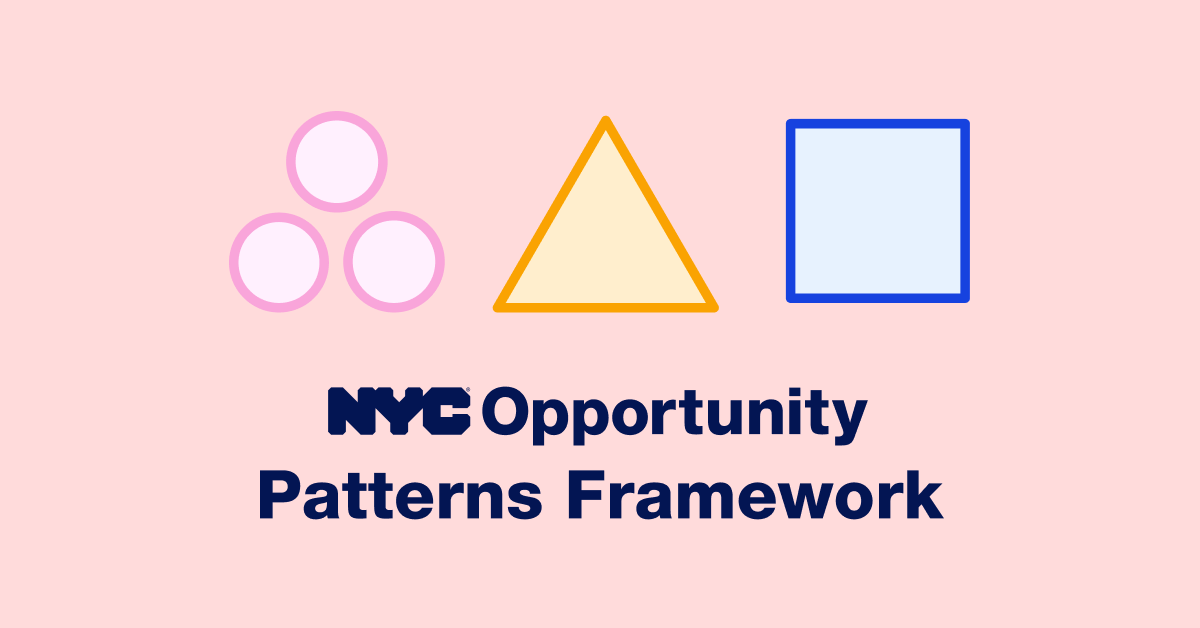
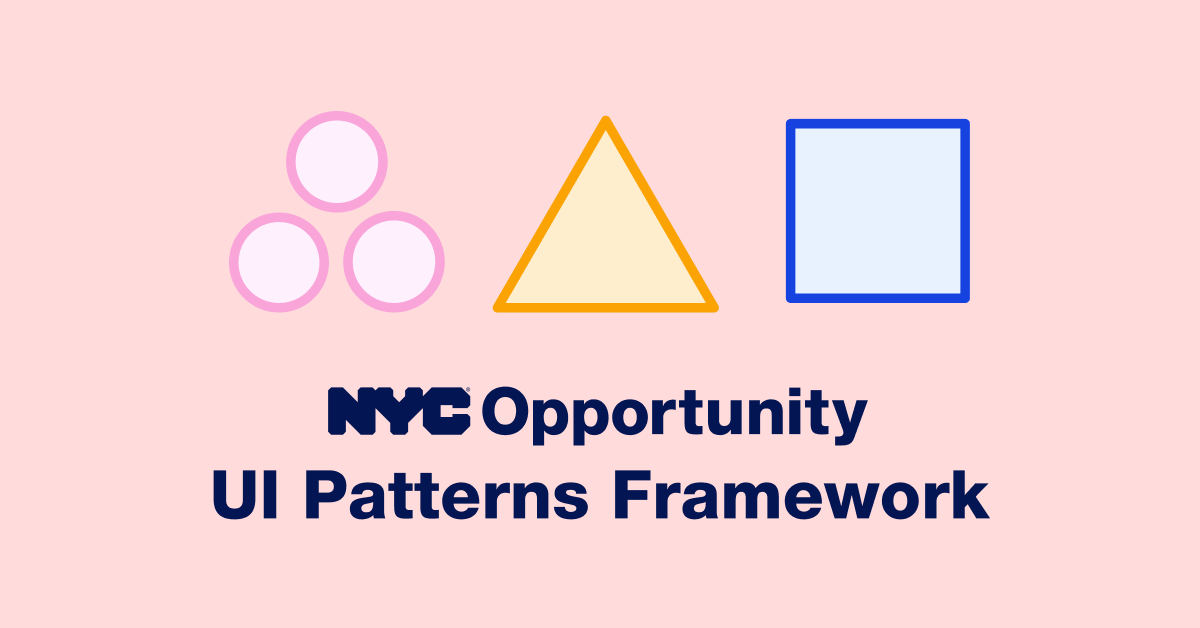
Updates

Changed region(s): [[0.1542, 0.7261, 0.8325, 0.8471]]

diff --git a/index.html b/index.html
@@ -6,17 +6,17 @@
   <meta content="IE=edge" http-equiv="X-UA-Compatible" />
   <meta content="width=device-width, initial-scale=1" name="viewport" />
   <link href="https://nycopportunity.github.io/patterns-framework/svg/pttrn-favicon.svg" rel="icon" type="image/svg+xml" />
-  <title>NYC Opportunity Patterns Framework</title>
-  <meta content="NYC Opportunity Patterns Framework" name="title" />
+  <title>NYC Opportunity UI Patterns Framework</title>
+  <meta content="NYC Opportunity UI Patterns Framework" name="title" />
   <meta content="The framework is a collection of tools and principles used to make creating pattern libraries fun for developers, transparent for teams, and sustainable beyond the lifecycle of digital products." name="description" />
   <meta content="website" property="og:type" />
   <meta content="https://nycopportunity.github.io/patterns-framework" property="og:url" />
-  <meta content="NYC Opportunity Patterns Framework" property="og:title" />
+  <meta content="NYC Opportunity UI Patterns Framework" property="og:title" />
   <meta content="The framework is a collection of tools and principles used to make creating pattern libraries fun for developers, transparent for teams, and sustainable beyond the lifecycle of digital products." property="og:description" />
   <meta content="https://nycopportunity.github.io/patterns-framework/img/open-graph.png" property="og:image" />
   <meta content="summary_large_image" property="twitter:card" />
   <meta content="https://nycopportunity.github.io/patterns-framework" property="twitter:url" />
-  <meta content="NYC Opportunity Patterns Framework" property="twitter:title" />
+  <meta content="NYC Opportunity UI Patterns Framework" property="twitter:title" />
   <meta content="The framework is a collection of tools and principles used to make creating pattern libraries fun for developers, transparent for teams, and sustainable beyond the lifecycle of digital products." property="twitter:description" />
   <meta content="https://nycopportunity.github.io/patterns-framework/img/open-graph.png" property="twitter:image" />
   <link href="https://fonts.gstatic.com" rel="preconnect" />
@@ -48,24 +48,44 @@
   <main class="color-light-background">
     <section class="layout-content px-2 tablet:px-3 pt-8">
       <div class="mx-auto">
-        <blockquote>
+        <blockquote class="mb-8">
           <p>The framework is a collection of tools and principles used to make creating pattern libraries fun for developers, transparent for teams, and sustainable beyond the lifecycle of digital products.</p>
         </blockquote>
-        <h3 id="why-patterns">Why Patterns?</h3>
-        <p>
-          <strong>Pattern libraries unify the experience of user interfaces because they can be integrated into different service delivery channels</strong>. The public does not perceive the parts that make up digital government services as distinct products the way civil servants do. Websites, forms, mobile apps, dashboards, email newsletters, etc. are often perceived as a single entity. The more consistent these are from a user interface (UI) and user experience (UX) perspective the better the service delivery will be for end-users.
-        </p>
-        <p>
-          <strong>They reduce the amount of work that is required by designers and developers to implement new services</strong>. By using patterns we can strive toward “making the right thing to do the easiest thing to do.” We can use tools that help developers become better at writing error free code, ensure the team adheres to accessibility standards, and create UIs that have been proven to work <strong>and</strong> can adapt to the changing times.
-        </p>
-        <p>
-          <strong>They create a common and accessible language for the organization to approach digital service delivery</strong>. “Language is fundamental to collaboration. If you work in a team, your design language needs to be shared among the people involved in the creation of the product. Without a shared language, a group of people can’t create effectively together – each person will have a different mental model of what they’re trying to achieve.” - <a href="https://www.smashingmagazine.com/design-systems-book/">
+        <!-- > The framework is a collection of tools and principles used to make creating pattern libraries fun for developers, transparent for teams, and sustainable beyond the lifecycle of digital products. -->
+        <h2 id="why-patterns">Why Patterns?</h2>
+        <div class="shadow-up">
+          <div class="color-primary-background border-navy p-4 h4 mb-3">
+            <p>
+              <strong>Pattern libraries unify the experience of user interfaces because they can be integrated into different service delivery channels.</strong>
+            </p>
+          </div>
+        </div>
+        <p>The public does not perceive the parts that make up digital government services as distinct products the way civil servants do. Websites, forms, mobile apps, dashboards, email newsletters, etc. are often perceived as a single entity. The more consistent these are from a user interface (UI) and user experience (UX) perspective the better the service delivery will be for end-users.</p>
+        <div class="shadow-up">
+          <div class="color-primary-background border-navy p-4 h4 mb-3 mt-6">
+            <p>
+              <strong>They reduce the amount of work that is required by designers and developers to implement new services</strong>.
+            </p>
+          </div>
+        </div>
+        <p>By using patterns we can strive toward “making the right thing to do the easiest thing to do.” We can use tools that help developers become better at writing error free code, ensure the team adheres to accessibility standards, and create UIs that have been proven to work <strong>and</strong> can adapt to the changing times.</p>
+        <div class="shadow-up">
+          <div class="color-primary-background border-navy p-4 h4 mb-3 mt-6">
+            <p>
+              <strong>They create a common and accessible language for the organization to approach digital service delivery</strong>.
+            </p>
+          </div>
+        </div>
+        <p>“Language is fundamental to collaboration. If you work in a team, your design language needs to be shared among the people involved in the creation of the product. Without a shared language, a group of people can’t create effectively together – each person will have a different mental model of what they’re trying to achieve.” - <a href="https://www.smashingmagazine.com/design-systems-book">
             <strong>Design Systems</strong>
-          </a> by Alla Kholmatova.
+          </a>
+          <em>by Alla Kholmatova</em>.
         </p>
-        <h3 id="principles">Principles</h3>
+        <h2 id="principles">Principles</h2>
         <p>
-          <a href="https://atomicdesign.bradfrost.com/">Atomic Design</a> and <a href="https://tailwindcss.com/docs/utility-first">Utility-first</a> - A pattern library starts with simple <a href="https://www.lightningdesignsystem.com/design-tokens/">design tokens</a> such as color, typographic features, and spacing values then scales up from there. Design tokens are used to build out more complex components, scripts, and utilities that retain modularity.
+          <strong>
+            <a href="https://atomicdesign.bradfrost.com/">Atomic Design</a> and <a href="https://tailwindcss.com/docs/utility-first">Utility-first</a>
+          </strong> - A pattern library starts with simple <a href="https://www.lightningdesignsystem.com/design-tokens/">design tokens</a> such as color, typographic features, and spacing values then scales up from there. Design tokens are used to build out more complex components, scripts, and utilities that retain modularity.
         </p>
         <p>
           <strong>Framework Agnostic</strong> - Use <a href="https://reactjs.org">React</a>, <a href="https://svelte.dev">Svelte</a>, or <a href="https://vuejs.org">Vue.js</a> to add reactivity to user interface components. Manage your own copy of <a href="https://getbootstrap.com">Bootstrap</a>, <a href="https://mui.com">Material UI</a>, <a href="https://get.foundation/">Foundation</a>, or any of the many component libraries of choice.
@@ -73,14 +93,13 @@
         <p>
           <strong>Modular Distribution and Portability</strong> - Make it once, use it many times. Instead of copying and pasting CSS and JavaScript into multiple projects, reuse and extend pattern libraries with a modern front-end ecosystem such as <a href="https://www.npmjs.com">NPM</a> and distribute via content-delivery-network.
         </p>
-        <h3 id="getting-started">Getting Started</h3>
+        <h2 id="getting-started">Getting Started</h2>
         <p>Scaffold your own library or project by running the following command.</p>
-        <pre><code class="language-shell">pre npx @nycopportunity/pttrn scaffold &amp;&amp; npm install &amp;&amp; NODE_ENV=development pttrn &amp;&amp; npm start
+        <pre><code class="language-shell">npx @nycopportunity/pttrn scaffold &amp;&amp; npm install &amp;&amp; NODE_ENV=development pttrn &amp;&amp; npm start
 </code></pre>
         <p>This will install the <a href="https://github.com/cityofnewyork/patterns-cli">Patterns Command Line Interface</a> described below, scaffold a new static library project, and start the development server.</p>
-        <h4 id="but-i-dont-write-code">But I don’t write code!</h4>
+        <h3 id="but-i-dont-write-code">But I don’t write code!</h3>
         <p>No worries! Then perhaps try documenting your pattern library specs in a <a href="https://www.figma.com/design-systems/">Figma</a> design file first and share this with your development team.</p>
-        <!-- The [Mayor's Office for Economic Opportunity](http://nyc.gov/opportunity) (NYC Opportunity) supports and promotes open-source software development. This repository contains our open–source policy and a list of public repositories on GitHub, including public-facing digital products and packages used by our products. Feel free to ask questions and share feedback. **Interested in contributing?** See our open positions on [buildwithnyc.github.io](http://buildwithnyc.github.io/). For details on maintaining this site refer to the [contributing guide](https://github.com/NYCOpportunity/loves-open-source/blob/main/contributing.md). -->
       </div>
     </section>
     <section class="layout-wrap mx-auto px-2 tablet:px-3 pt-8">
@@ -96,7 +115,7 @@
       <nyco-repo-archive class="grid tablet:grid-cols-2 gap-3 mb-6" data-archive="pinned"></nyco-repo-archive>
       <div class="text-center mb-3">
         <h2>UI Pattern Components</h2>
-        <p>These reusable user interface (UI) components can be reused in different projects.</p>
+        <p>These reusable user interface (UI) components can be implemented in different projects.</p>
       </div>
       <nyco-repo-archive class="grid tablet:grid-cols-2 gap-3 mb-6" data-archive="modules"></nyco-repo-archive>
       <div class="text-center mb-3">
@@ -130,15 +149,15 @@
           <mark class="badge">Complete</mark> Release <a href="https://github.com/NYCOpportunity/pattern-attribution">Attribution Pattern</a>
         </p>
         <p>
-          <mark class="badge">In-progress</mark> Move to releasing shared pattern modules.
+          <mark class="badge">In-progress</mark> Move to releasing shared pattern modules. Continue to support integrations and contributions.
         </p>
         <p>
-          <mark class="badge">Complete</mark> Release <a href="https://github.com/CityOfNewYork/patterns-cli/releases/tag/v1.0.0">v1 of the Patterns CLI</a>
+          <mark class="badge">Complete</mark> Release <a href="https://github.com/CityOfNewYork/patterns-cli/releases/tag/v1.0.0">v1 of the Patterns CLI</a>. v1 culminated a long effort to standardize the way our pattern libraries were created. We went from desperate NPM scripts and configurations to a standard set of packages and tools for building and maintaining patterns for different products and audiences. This development period was a heavy focus on developer tooling and support while also beginning to involve designers in the process of contributing.
         </p>
       </div>
     </section>
     <div class="mx-auto text-center py-8">
-      <p>Last updated November 8, 2021</p>
+      <p>Last updated November 9, 2021</p>
     </div>
   </main>
   <footer class="o-footer color-dark-background border-navy-70t">
